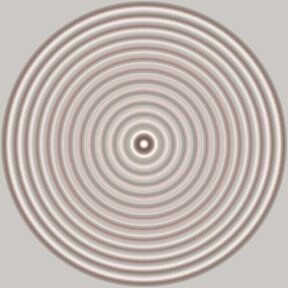
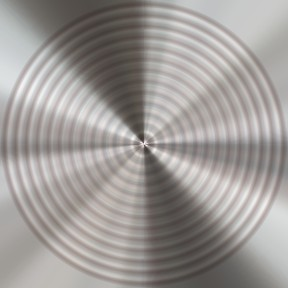
Give the knob face the spiral photo's reflections
The face was concentric rings only. It now also carries the photo's own bright and dark wedges (brightest wedge 2.2 times the darkest, matching the photo; rings-only scored 1.0) so it reflects light like spun metal. The reflections are in the image, so they stay put while the indicator turns. The CSS conic overlay is removed.

diff --git a/css/components.css b/css/components.css
@@ -242,7 +242,8 @@ select.fam-glass-input option { color: #222; text-shadow: none; }
   font-size: 20px;
 }
 
-/* Face built from the spiral photo's ring profile (no axis seams), a soft conic sheen, a smooth bevel and an orange indicator */
+/* Face built from the spiral photo: clean rings with the photo's own bright and dark wedges baked in, so it reflects light like spun metal.
+   The reflections are part of the image, so they stay put while --fam-knob-angle turns the orange indicator. */
 .fam-knob {
   --fam-knob-angle: 35deg;
   box-sizing: border-box;
@@ -252,8 +253,7 @@ select.fam-glass-input option { color: #222; text-shadow: none; }
   height: 72px;
   border-radius: 50%;
   background:
-    radial-gradient(circle at 50% 14%, rgba(255, 255, 255, .4), rgba(255, 255, 255, 0) 55%),
-    conic-gradient(from 30deg, rgba(255, 255, 255, .2), rgba(255, 255, 255, 0) 22%, rgba(0, 0, 0, .16) 45%, rgba(255, 255, 255, .2) 55%, rgba(255, 255, 255, 0) 78%, rgba(0, 0, 0, .14) 95%, rgba(255, 255, 255, .2)),
+    radial-gradient(circle at 50% 14%, rgba(255, 255, 255, .3), rgba(255, 255, 255, 0) 55%),
     var(--fam-tex-knob-face) 0 0 / 100% 100%;
   box-shadow: inset 0 -3px 6px rgba(0, 0, 0, .4), inset 0 1px 1px rgba(255, 255, 255, .8), 0 5px 9px rgba(0, 0, 0, .55), 0 0 0 1px rgba(0, 0, 0, .6);
 }

diff --git a/tools/texture-pipeline/make_radial_face.py b/tools/texture-pipeline/make_radial_face.py
@@ -1,7 +1,9 @@
-"""Build a rotationally symmetric knob face from a spiral-metal photo.
+"""Build a knob face from a spiral-metal photo: concentric rings plus the photo's own light and dark wedges.
 
-usage: make_radial_face.py SOURCE OUTPUT CENTER_X CENTER_Y SOURCE_RADIUS SIZE
-The radial profile is averaged over angles that avoid the photo's axis seams and wedge lighting.
+usage: make_radial_face.py SOURCE OUTPUT CENTER_X CENTER_Y SOURCE_RADIUS SIZE [LIGHT_STRENGTH [TINT_STRENGTH]]
+The ring profile is averaged over angles that avoid the photo's axis seams and wedge lighting, which gives clean rings without spokes.
+The wedges (the reflections) are then measured separately, as brightness and color versus angle around the center, and multiplied back in:
+LIGHT_STRENGTH 0 keeps the rings only, 1 uses the photo's full contrast; TINT_STRENGTH carries over the colour cast of the bright wedges.
 """
 import math
 import sys
@@ -9,6 +11,8 @@ from PIL import Image, ImageFilter
 
 source_path, output_path = sys.argv[1], sys.argv[2]
 center_x, center_y, source_radius, size = float(sys.argv[3]), float(sys.argv[4]), int(sys.argv[5]), int(sys.argv[6])
+light_strength = float(sys.argv[7]) if len(sys.argv) > 7 else 0.0
+tint_strength = float(sys.argv[8]) if len(sys.argv) > 8 else 0.0
 
 source = Image.open(source_path).convert("RGB").filter(ImageFilter.GaussianBlur(1.5))
 pixels = source.load()
@@ -32,6 +36,40 @@ for radius in range(source_radius):
         totals[2] += b
     profile.append(tuple(total / len(sample_angles) for total in totals))
 
+ANGLE_STEPS = 720
+SMOOTHING_STEPS = 6  # moving average half-width, 3 degrees: keeps the wedges, drops the moire between rings and pixels
+
+
+def angular_profile():
+    """Mean colour per angle over the ring area, as a factor of the overall mean: [(r, g, b)] with ANGLE_STEPS entries."""
+    inner, outer = round(source_radius * 0.3), round(source_radius * 0.95)
+    raw = []
+    for step in range(ANGLE_STEPS):
+        angle = 2 * math.pi * step / ANGLE_STEPS
+        totals = [0.0, 0.0, 0.0]
+        radii = range(inner, outer, 4)
+        for radius in radii:
+            pixel = pixels[round(center_x + radius * math.cos(angle)), round(center_y + radius * math.sin(angle))]
+            for channel in range(3):
+                totals[channel] += pixel[channel]
+        raw.append([total / len(radii) for total in totals])
+    smooth = []
+    for step in range(ANGLE_STEPS):
+        window = [raw[(step + offset) % ANGLE_STEPS] for offset in range(-SMOOTHING_STEPS, SMOOTHING_STEPS + 1)]
+        smooth.append([sum(sample[channel] for sample in window) / len(window) for channel in range(3)])
+    overall = [sum(sample[channel] for sample in smooth) / ANGLE_STEPS for channel in range(3)]
+    return [tuple(sample[channel] / overall[channel] for channel in range(3)) for sample in smooth]
+
+
+def reflection_factors(profile_entry):
+    """Brightness and per-channel tint factors for one angle, scaled by the two strengths."""
+    brightness = sum(profile_entry) / 3
+    light = 1 + light_strength * (brightness - 1)
+    return [light * (1 + tint_strength * (profile_entry[channel] / brightness - 1)) for channel in range(3)]
+
+
+reflections = angular_profile() if light_strength > 0 else None
+
 face = Image.new("RGB", (size, size))
 face_pixels = face.load()
 half = (size - 1) / 2
@@ -41,10 +79,12 @@ for y in range(size):
         distance = min(distance, source_radius - 1.001)
         lower = int(distance)
         fraction = distance - lower
-        face_pixels[x, y] = tuple(
-            round(profile[lower][channel] * (1 - fraction) + profile[lower + 1][channel] * fraction)
-            for channel in range(3)
-        )
+        ring = [profile[lower][channel] * (1 - fraction) + profile[lower + 1][channel] * fraction for channel in range(3)]
+        if reflections:
+            step = round((math.atan2(y - half, x - half) % (2 * math.pi)) / (2 * math.pi) * ANGLE_STEPS) % ANGLE_STEPS
+            factors = reflection_factors(reflections[step])
+            ring = [ring[channel] * factors[channel] for channel in range(3)]
+        face_pixels[x, y] = tuple(min(255, max(0, round(value))) for value in ring)
 
 face.save(output_path, quality=90)
 print(output_path)

diff --git a/tools/texture-pipeline/angular_contrast.py b/tools/texture-pipeline/angular_contrast.py
@@ -1,0 +1,31 @@
+"""Print how much a round face's brightness varies with the angle around its centre.
+
+usage: angular_contrast.py FILE [CENTER_X CENTER_Y RADIUS]
+Mean luminance is taken in 12 sectors over the ring area (30% to 90% of the radius); the result is brightest sector / darkest sector.
+A rotationally symmetric face scores about 1.0. A spiral-metal photo, with its bright and dark wedges, scores well above that.
+Without a centre and radius the image's own centre and half-width are used.
+"""
+import math
+import sys
+from PIL import Image
+
+path = sys.argv[1]
+image = Image.open(path).convert("L")
+if len(sys.argv) >= 5:
+    center_x, center_y, radius = float(sys.argv[2]), float(sys.argv[3]), float(sys.argv[4])
+else:
+    center_x, center_y, radius = (image.width - 1) / 2, (image.height - 1) / 2, (image.width - 1) / 2
+
+SECTORS = 12
+totals, counts = [0.0] * SECTORS, [0] * SECTORS
+pixels = image.load()
+for step in range(720):
+    angle = 2 * math.pi * step / 720
+    for fraction in [0.3 + 0.6 * i / 40 for i in range(41)]:
+        x = round(center_x + fraction * radius * math.cos(angle))
+        y = round(center_y + fraction * radius * math.sin(angle))
+        sector = int(step / 720 * SECTORS)
+        totals[sector] += pixels[x, y]
+        counts[sector] += 1
+means = [total / count for total, count in zip(totals, counts)]
+print(f"{max(means) / min(means):.2f}")

diff --git a/docs/superpowers/specs/2026-10-22-fam-ui-design.md b/docs/superpowers/specs/2026-10-22-fam-ui-design.md
@@ -101,7 +101,7 @@ Each item states what was decided. Where something is my own call and not the ow
 - **Inputs and dropdowns:** rounded glass fields. The dropdown has no separate button; it is the glass field with a plain white chevron. The open menu's selected row is the solid blue gradient with no gloss.
 - **Switch (decided):** brushed-metal track, spiral-metal thumb. On state: full blue fill with a soft top highlight, an inner glow, an outer glow and a glowing thumb.
 - **Plastic buttons:** satin, one `--c` color, fine grain, a very soft top sheen (no hard gloss). Label colors were chosen so white labels pass: red `#a82219`, green `#176528`, blue `#264eae`, purple `#53349e`. The amber button uses a dark label because white cannot pass on orange.
-- **Knob (decided):** metal spiral face with a smooth bevel and an orange indicator tick. The face is generated from the spiral photo's ring profile, averaged around the circle away from the photo's moiré seams, so it has no spokes. A very soft conic sheen sits over it.
+- **Knob (decided):** metal spiral face with a smooth bevel and an orange indicator tick. The face is built from the spiral photo: clean concentric rings (the ring profile averaged around the circle away from the photo's moiré seams) with the photo's own bright and dark wedges multiplied back in, measured as brightness and colour versus angle around its centre, so it reflects light like spun metal. The owner asked for the reflections after seeing a rings-only face. The reflections are part of the image, so they stay fixed while the tick turns.
 - **Engraved text classes (decided):** `engraved-metal`, `engraved-leather`, `engraved-wood` - a dark glyph with a light lip along the lower edge, so it looks cut into the surface. Colors were fitted to the real texture pixels to pass contrast: metal `rgb(18,20,26)`, wood `rgb(66,38,14)`, and leather dark `rgb(55,28,10)` on a lightened leather panel. Dark text on the original dark leather could not pass, so the leather panel is tinted lighter.
 - **Recessed inputs (decided):** cream gradient `#f9f1dc → #efe4c6`, inner shadow with a light lip below, placeholder `rgb(116,98,66)`.
 - **Leather button:** tan gradient `#dcaa6c → #be8647`, dark label.
@@ -137,7 +137,7 @@ Scripts in `tools/texture-pipeline/`. They need Python with Pillow and ImageMagi
 |---|---|
 | Seamless tile from a random-grain photo (felt, wood, leather, metal, cardstock) | `make_tile.py SRC OUT CROP_FRACTION SIZE FLATTEN_RADIUS [ROTATE]`. Crops the center, removes uneven lighting with a high-pass, then makes the edges seamless by cross-fading with a half-offset copy. Used values: felt `0.5 512 60`, light wood `0.5 512 60 90`, brushed metal `0.55 512 14`, cardstock `0.3 512 80`. |
 | Legal pad tile | `make_legal_tile.py`. Patches out the photo's margin line and bright left edge, then rebuilds the rules in red on yellow paper while keeping the paper texture. |
-| Knob face | `make_radial_face.py SRC OUT 2762 1509 450 288`. Averages the ring profile at angles away from the photo's seams. |
+| Knob face | `make_radial_face.py SRC OUT 2762 1509 450 288 1.0 0.6`. Averages the ring profile at angles away from the photo's seams, then multiplies in the photo's wedge reflections (full contrast, 60% of their colour cast). |
 | Stitched frame | `make_stitched_frame.py SRC OUT 900 2500 119.8 1942 152 34`. Find the stitch period first with `stitch_period.py` and `local_periods.py`. |
 | Soft inner edge, tone-matched fill, black variant | `soft_interior.py` |
 | Tan variant | `tan_leather.py`. Gradient map stops `(0,(126,94,58))`, `(.35,(166,126,76))`, `(.65,(208,168,106))`, `(1,(243,222,178))` with luminance raised to the 0.42 power. |

diff --git a/CREDITS.md b/CREDITS.md
@@ -11,7 +11,7 @@ Every texture in `assets/` is processed from a photograph on Unsplash. Unsplash 
 | `metal-tile.jpg` | `metal-brushed_apryan-widodo-tRrIXmtOmL4-unsplash.jpg` | apryan-widodo | `make_tile.py 0.55 512 14` |
 | `metal-brushed.jpg` | `metal-brushed_apryan-widodo-tRrIXmtOmL4-unsplash.jpg` | apryan-widodo | processed copy, recipe not recorded |
 | `metal-spiral.jpg` | `metal-spiral_fikri-rasyid-FnKKF2bATEE-unsplash.jpg` | fikri-rasyid | processed copy, recipe not recorded, scaled to 360px wide |
-| `knob-face.jpg` | `metal-spiral_fikri-rasyid-FnKKF2bATEE-unsplash.jpg` | fikri-rasyid | `make_radial_face.py ... 2762 1509 450 288` |
+| `knob-face.jpg` | `metal-spiral_fikri-rasyid-FnKKF2bATEE-unsplash.jpg` | fikri-rasyid | `make_radial_face.py ... 2762 1509 450 288 1.0 0.6` |
 | `grain-fine.jpg` | `grain_compagnons-ye8lWOjNUzI-unsplash.jpg` | compagnons | processed copy, recipe not recorded, made seamless with `make_tile.py 1.0 512 0` |
 | `cardstock-tile.jpg` | `cardstock_kiwihug-qv05FvdE26k-unsplash.jpg` | kiwihug | `make_tile.py 0.3 512 80` |
 | `legal-tile.jpg` | `lined-paper_heather-green-hKfKmfvPY44-unsplash.jpg` | heather-green | `make_legal_tile.py` |
